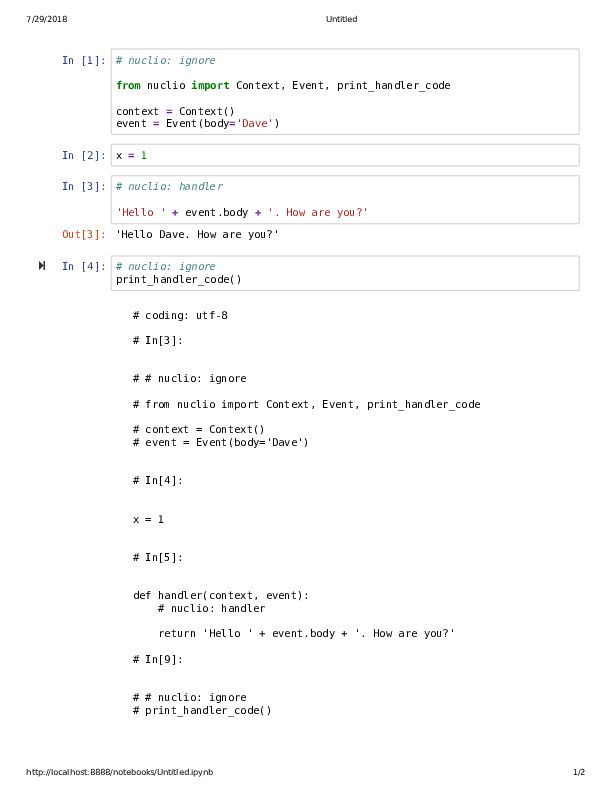
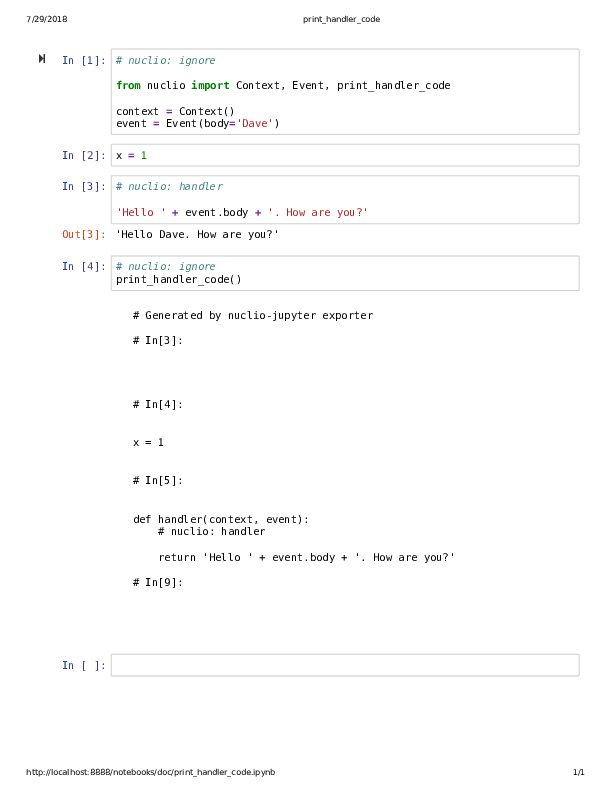
Don't show #nuclio: ignore cells

diff --git a/nuclio/export.py b/nuclio/export.py
@@ -66,7 +66,7 @@ class NuclioExporter(HTMLExporter):
         code = ipython2python(text)
 
         if is_ignore(code):
-            return indent(code, '# ')
+            return ''
 
         if not is_handler(code):
             return code
@@ -103,9 +103,7 @@ class NuclioExporter(HTMLExporter):
 # Based on
 # https://github.com/jupyter/notebook/issues/1000#issuecomment-359875246
 def notebook_file_name():
-    """
-    Return the full path of the jupyter notebook.
-    """
+    """Return the full path of the jupyter notebook."""
     kernel_id = re.search('kernel-(.*).json',
                           ipykernel.connect.get_connection_file()).group(1)
     servers = list_running_servers()

diff --git a/doc/handler-out.py b/doc/handler-out.py
@@ -1,4 +1,5 @@
-# coding: utf-8
+
+# Generated by nuclio-jupyter exporter
 
 # In[1]:
 
@@ -16,10 +17,6 @@ default_name = 'Dave'
 # In[3]:
 
 
-# # nuclio:ignore
-# from nuclio import Context, Event
-# context = Context()
-# event = Event(body=default_name)
 
 
 # In[4]:
@@ -28,4 +25,3 @@ default_name = 'Dave'
 def handler(context, event):
     # nuclio:handler
     return greeting(event.body)
-

diff --git a/nuclio/__init__.py b/nuclio/__init__.py
@@ -15,4 +15,4 @@
 from .request import Context, Event  # noqa
 from .export import print_handler_code  # noqa
 
-__version__ = '0.2.0'
+__version__ = '0.2.1'

diff --git a/README.md b/README.md
@@ -65,7 +65,7 @@ cells with `# nuclio: ignore` commented out.
 Will generate
 
 ```python
-# coding: utf-8
+# Generated by nuclio-jupyter exporter
 
 # In[1]:
 def greeting(name):
@@ -75,10 +75,6 @@ def greeting(name):
 default_name = 'Dave'
 
 # In[3]:
-# # nuclio:ignore
-# from nuclio import Context, Event
-# context = Context()
-# event = Event(body=default_name)
 
 # In[4]:
 def handler(context, event):
